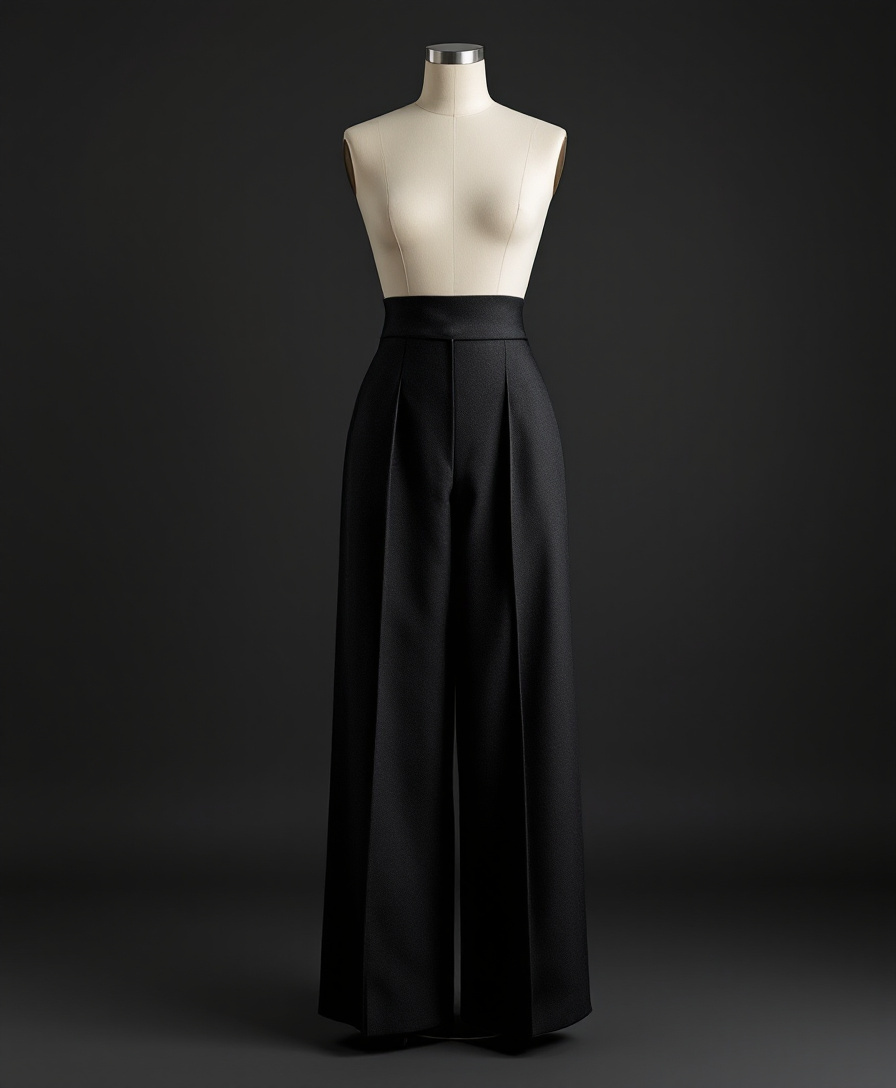
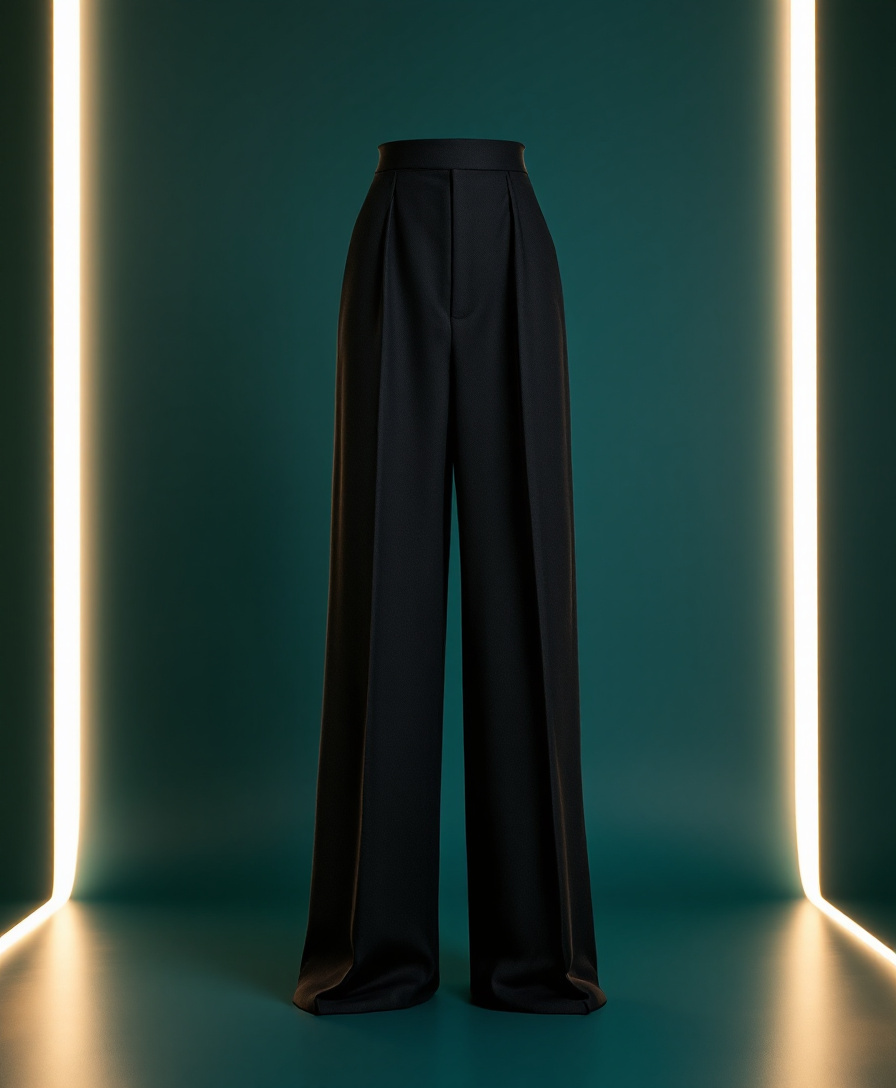
Hero-Weben tatsaechlich repariert (war unsichtbar) + CLAUDE.md: Visuelle Pflichtpruefung
CLAUDE.md: neue verbindliche Regel — JEDE neue/geaenderte Visualisierung,
Sektion ODER Animation muss visuell selbst geprueft werden (Bewegung als dichte
Frame-Serie / in-page-Sampling, nicht nur Klassen/2 Standbilder). Genau diese
Pruefung hat den Bug hier aufgedeckt.

Der Bug: ab dem 2. Stueck war das Weben UNSICHTBAR — toNextFlat() blendet das
Foto mit fill:'forwards' auf opacity 0; eine fill:forwards-WAAPI-Animation
ueberschreibt aber inline style.opacity='1' UND sammelt sich an, sodass das
naechste weaveIn auf opacity 0 lief (nur das 1. Stueck, Hoodie, klappte). Fix:
clearAnims() (a.cancel()) vor jeder Phase + Basis-Styles inline setzen; die
Fade-out-Animation wird nach dem Uebergang gecancelt. Belegt: pants/dress weben
jetzt sichtbar (opacity 1, Foto materialisiert ueber der Webkante), 41 sichtbare
vs. 4 (gewollte Fade-out-)Frames.

Fotos neu generiert: Stueck fuellt jetzt den Rahmen + Rim-Light auf teal-
Studio-Grund -> auch dunkle Stuecke (Charcoal-Hose) trennen sich klar und die
Webkante enthuellt sofort Stoff statt leerem Dunkel. Wide-Leg-Hose passt nun.

Cache-Busting: styles.css?v=20260611-weave + ur-create.js?v=20260611-weave
(ur-create.js hatte KEINE Version -> wiederkehrende Besucher liefen auf altem
Crossfade-Code; das war vermutlich Teil des 'geht nicht'-Eindrucks).

Verifiziert: 8 Suiten, deno lint, CSS/HTML gruen; alle 4 Stuecke zyklisch
sichtbar gewebt, 0 echte Console-Fehler.

diff --git a/js/ur-create.js b/js/ur-create.js
@@ -124,13 +124,18 @@
     const EASE = "cubic-bezier(.65,0,.35,1)";
     const wait = (ms) => new Promise((r) => setTimeout(r, ms));
     const done = (anim) => anim.finished.catch(() => {}); // abgebrochene Animationen schlucken
+    // WICHTIG: fill:"forwards"-Animationen überschreiben inline-Styles UND
+    // sammeln sich an → vor jeder Phase die alten abbrechen, sonst bleibt z. B.
+    // ein Opacity:0 aus dem Übergang hängen und das Weben ist unsichtbar.
+    const clearAnims = (el) => el.getAnimations().forEach((a) => a.cancel());
 
     async function weaveIn() {
       const dur = 1850;
       try { if (photoEl.decode) await photoEl.decode(); } catch (_e) { /* egal */ }
-      photoEl.style.opacity = "1";
-      flatEl.style.opacity = "1";
-      weaveEl.style.opacity = "1";
+      clearAnims(photoEl); clearAnims(flatEl); clearAnims(weaveEl);
+      photoEl.style.opacity = "1"; photoEl.style.clipPath = HIDDEN; photoEl.style.filter = "none";
+      flatEl.style.opacity = "1"; flatEl.style.clipPath = FLAT_FULL;
+      weaveEl.style.opacity = "1"; weaveEl.style.top = "0%";
       // Foto wird von oben enthüllt, Flat KOMPLEMENTÄR von oben weggewebt → beide
       // grenzen exakt an der Webkante an (kein Überlappen/Ausfransen).
       const a = photoEl.animate([{ clipPath: HIDDEN }, { clipPath: SHOWN }],
@@ -152,16 +157,19 @@
     // nächsten Flat (kurz, sauber — der Star ist das Weben oben).
     async function toNextFlat(next) {
       renderFlat(next);
+      clearAnims(flatEl);
       flatEl.style.clipPath = FLAT_FULL;
       flatEl.style.opacity = "0";
       const fa = flatEl.animate([{ opacity: 0 }, { opacity: 1 }], { duration: 520, easing: EASE, fill: "forwards" });
-      photoEl.animate([{ opacity: 1 }, { opacity: 0 }], { duration: 520, easing: EASE, fill: "forwards" });
+      const pa = photoEl.animate([{ opacity: 1 }, { opacity: 0 }], { duration: 520, easing: EASE, fill: "forwards" });
       await done(fa);
-      // Foto fürs nächste Weben vorbereiten (verdeckt: geclippt, wieder opak)
+      // Übergang fertig: Animationen abbauen, Basis-Styles inline festschreiben
+      // (sonst pinnt das forwards-Fill die Opacity und das nächste Weben ist leer).
+      pa.cancel(); clearAnims(flatEl);
+      flatEl.style.opacity = "1";
       photoEl.src = DIR + pairs[next].id + ".jpg";
       photoEl.style.clipPath = HIDDEN;
       photoEl.style.opacity = "1";
-      flatEl.style.opacity = "1";
     }
 
     let i = 0;

diff --git a/index.html b/index.html
@@ -73,7 +73,7 @@
         } catch (e) { /* no-op — CSS falls back to svh/vh */ }
       })();
     </script>
-    <link rel="stylesheet" href="css/styles.css?v=20260611-motion">
+    <link rel="stylesheet" href="css/styles.css?v=20260611-weave">
 
     <!-- Preload the LCP hero image (first gallery slide) so it paints fast.
          Slides 2–6 are deferred (data-src, fetched on first crossfade). -->
@@ -1062,7 +1062,7 @@
     <script src="js/design-engine/flow.js"></script>
     <script src="js/app.js"></script>
     <script src="js/flair.js"></script>
-    <script src="js/ur-create.js"></script>
+    <script src="js/ur-create.js?v=20260611-weave"></script>
     <script src="js/ambient-ticker.js"></script>
 </body>
 </html>

diff --git a/CLAUDE.md b/CLAUDE.md
@@ -23,6 +23,19 @@ Sorgfalt erzeugt Tempo. Konkret, verbindlich:
   `fetch`) UND (b) sie sichtbar gerendert wird (Screenshot). Achtung-Falle:
   relative `url()` in einer CSS-Variable wird relativ zum **Stylesheet** (css/)
   aufgelöst, nicht zum Dokument → root-absolute Pfade (`/js/...`) nutzen.
+- **JEDE neue/geänderte Visualisierung, Sektion ODER Animation visuell selbst
+  prüfen — bevor sie „fertig" heißt.** Klassen-/State-Checks und zwei Standbilder
+  genügen NICHT (damit wurde schon eine kaputte „Animation" für fertig erklärt).
+  Pflicht: am echten Render (headless, `scripts/shoot.mjs` bzw. eigenes
+  Playwright-Skript) anschauen — und zwar:
+  • Statische Sektion → Screenshot Desktop + Mobil (≤ 480 px) ansehen.
+  • Bewegung/Übergang → die BEWEGUNG selbst prüfen, nicht den Endzustand:
+    dichte Frame-Serie über die volle Dauer (z. B. alle 80–120 ms) ODER den
+    animierten Wert in-page samplen (z. B. `clip-path`/`opacity`/`transform`
+    alle 100 ms loggen) und die Kurve ansehen. Mehrere Zwischenframes wirklich
+    öffnen und beurteilen, ob es flüssig wirkt — nicht nur, ob es „läuft".
+  • Ehrlich beurteilen: wirkt es billig/ruckelig/wie ein Sprung → ist es NICHT
+    fertig. Erst wenn das Auge (am Frame-Beleg) zustimmt, gilt es als erledigt.
 - **Auf Ideen des Users kritisch reagieren — nicht reflexhaft bejahen.** Den
   Vorschlag ernst prüfen, Schwächen/Risiken/Trade-offs offen benennen, bei
   Bedarf begründet widersprechen UND eine eigene, ggf. bessere Alternative
